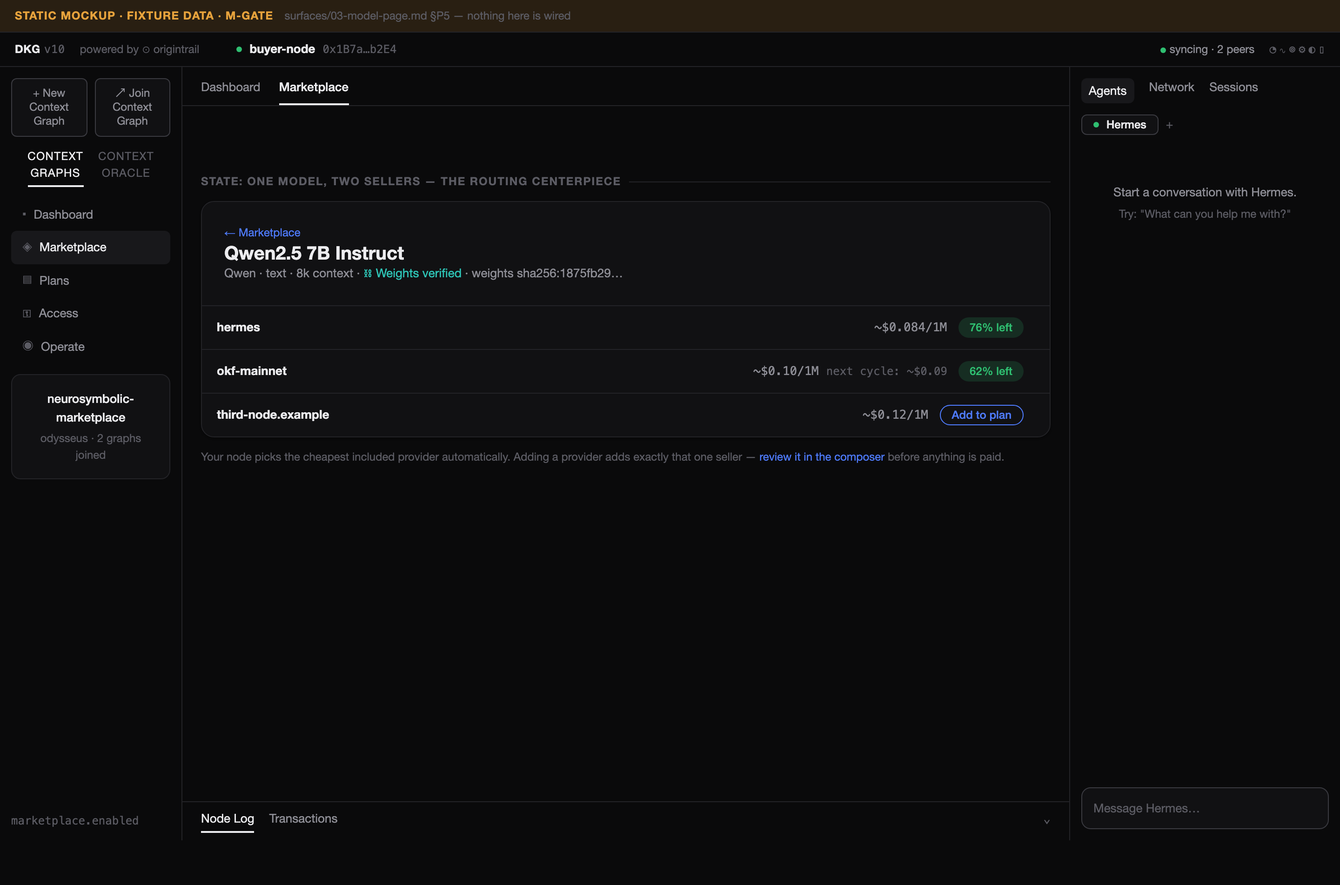
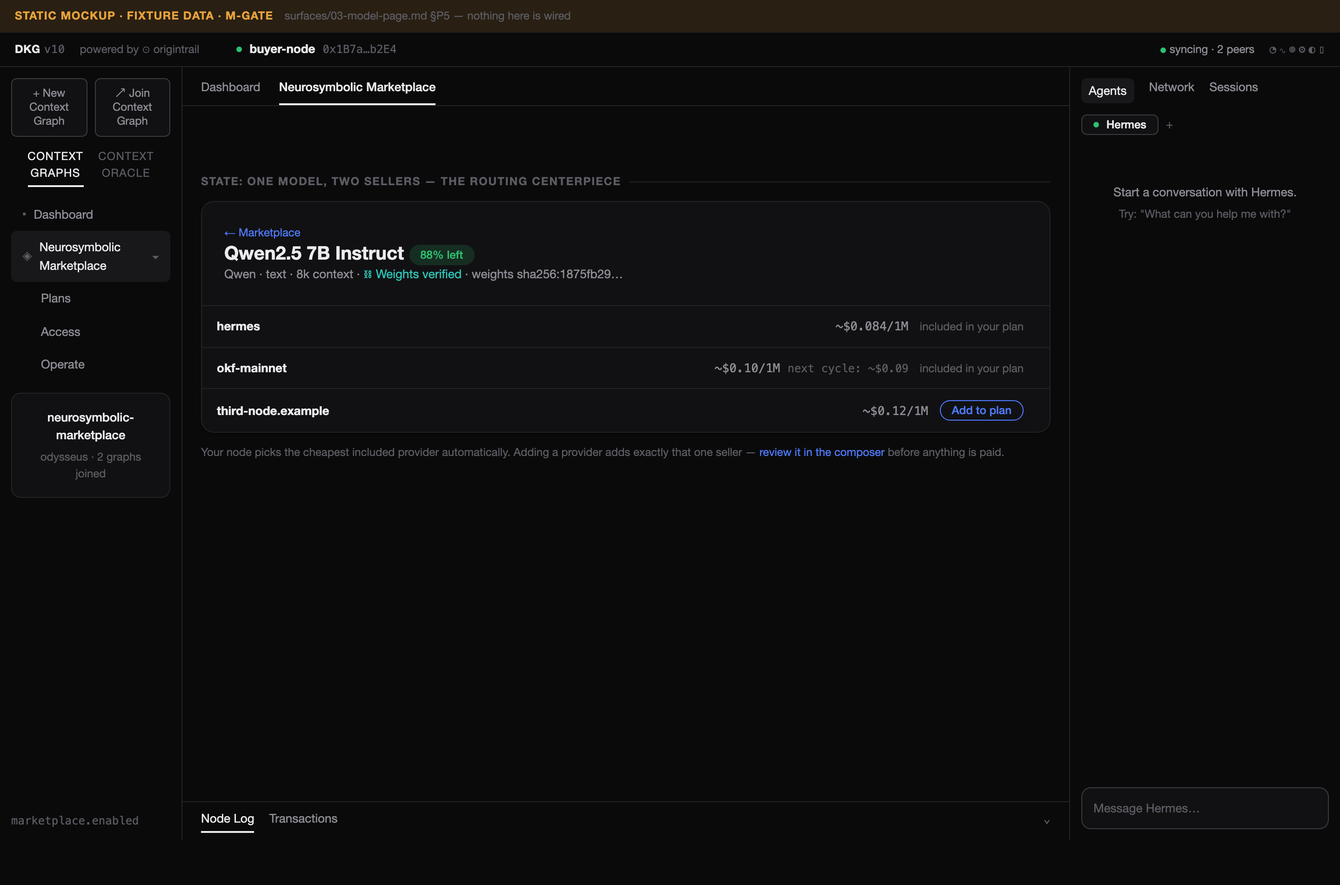
P5 Part-0: separate per-offering meters (pool removed) + collapsible Neurosymbolic Marketplace nav
Claude-Session: https://claude.ai/code/session_01JiTT3xcuesA55AyqxVU4c1

diff --git a/docs/ui-spec/mockups/p5/05-plans-meters.html b/docs/ui-spec/mockups/p5/05-plans-meters.html
@@ -38,7 +38,7 @@
     <aside class="dkg-side">
       <div class="dkg-cgbtns"><span class="b">+ New<br>Context<br>Graph</span><span class="b">↗ Join<br>Context<br>Graph</span></div>
       <div class="dkg-railtabs"><span class="on">Context<br>Graphs</span><span>Context<br>Oracle</span></div>
-      <div class="dkg-nav"><a class="row" href="index.html"><span class="ic">▪</span>Dashboard</a><a class="row" href="03-catalog-subscribed.html"><span class="ic">◈</span>Marketplace</a><a class="row on" href="05-plans-meters.html"><span class="ic">▤</span>Plans</a><a class="row" href="10-access.html"><span class="ic">⚿</span>Access</a><a class="row" href="09-operate-v5.html"><span class="ic">◉</span>Operate</a></div>
+      <div class="dkg-nav"><a class="row" href="index.html"><span class="ic">▪</span>Dashboard</a><a class="row" href="03-catalog-subscribed.html"><span class="ic">◈</span>Neurosymbolic Marketplace <span class="car">▾</span></a><div class="subnav"><a class="row sub on" href="05-plans-meters.html">Plans</a><a class="row sub" href="10-access.html">Access</a><a class="row sub" href="09-operate-v5.html">Operate</a></div></div>
       <div class="dkg-nocg"><div class="t">neurosymbolic-marketplace</div><div class="s">odysseus · 2 graphs joined</div></div>
       <div class="dkg-flag">marketplace.enabled</div>
     </aside>
@@ -47,38 +47,46 @@
       <div class="dkg-content">
 <div class="frame frame--narrow">
 
-  <div class="state-label">state: normal — the pool shows its composition</div>
+    <div class="state-label">state: normal — every offering meters itself</div>
   <div class="card card--pad stack">
-    <div class="planhead"><h1 style="font-size:var(--fs-xl)">Plan: 38% used</h1><span class="sec">Resets in 12 days · <a href="01-subscribe-onboarding.html#consent">Top up</a> · <a href="02-plan-composer.html" class="muted">Upgrade next period</a></span></div>
-    <div class="bar plain"><i style="width:38%"></i></div>
+    <div class="planhead"><h1 style="font-size:var(--fs-xl)">Plan overall: 34% of this period's value used</h1><span class="sec">Resets in 12 days · <a href="01-subscribe-onboarding.html#consent">Top up</a> · <a href="02-plan-composer.html" class="muted">Upgrade next period</a></span></div>
+    <p class="muted xs">A readout, not a limit — each meter below is its own ceiling.</p>
     <div class="mrow">
-      <div class="mhead"><span><strong>okf-mainnet pool</strong> — $0.30 of $0.78 · any mix of 4 offerings</span><span class="mono sec">38%</span></div>
-      <div class="bar"><i class="seg1" style="width:23.2%"></i><i class="seg2" style="width:9.5%"></i><i class="seg3" style="width:3%"></i><i class="segq" style="width:2.3%"></i></div>
-      <div class="legend">Mostly Qwen 14B (61%) · Qwen 7B 25% · gpt-5.x 8% · queries 6%</div>
-      <div class="pop">Qwen 14B — 1.08M tokens · $0.18 <span class="muted">(tapped segment)</span></div>
+      <div class="mhead"><span><strong>Qwen2.5 14B</strong> <span class="muted xs">via okf-mainnet</span> — 24% used · Resets in 12 days</span><span class="mono sec">76% left</span></div>
+      <div class="bar plain"><i style="width:24%"></i></div>
+      <div class="pop">1.08M of 4.5M tokens · $0.18 spent <span class="muted">(tapped)</span></div>
       <div class="sparkrow"><span class="spark"><i style="height:16%"></i><i style="height:24%"></i><i style="height:24%"></i><i style="height:32%"></i><i style="height:48%"></i><i style="height:72%"></i><i style="height:96%"></i></span><span class="pace warn">At this pace: runs out ~4 days before reset</span></div>
     </div>
     <div class="mrow">
-      <div class="mhead"><span><strong>hermes · Qwen2.5 7B</strong> (separate budget) — 24% used</span><span class="mono sec">76% left</span></div>
-      <div class="bar plain"><i style="width:24%"></i></div>
-      <div class="legend">At least 5M tokens at your max price — routed cheaper twice, +140k extra</div>
+      <div class="mhead"><span><strong>Qwen2.5 7B</strong> <span class="muted xs">via hermes · okf-mainnet</span> — 12% used · Resets in 12 days</span><span class="mono sec">88% left</span></div>
+      <div class="bar plain"><i style="width:12%"></i></div>
       <div class="sparkrow"><span class="spark"><i style="height:16%"></i><i style="height:16%"></i><i style="height:24%"></i><i style="height:16%"></i><i style="height:24%"></i><i style="height:16%"></i><i style="height:24%"></i></span><span class="pace quiet">On track to reset</span></div>
+    </div>
+    <div class="mrow">
+      <div class="mhead"><span><strong>gpt-5.x</strong> <span class="muted xs">via okf-mainnet</span> — 38% used · Resets in 12 days</span><span class="mono sec">62% left</span></div>
+      <div class="bar plain"><i style="width:38%"></i></div>
+      <div class="sparkrow"><span class="spark"><i style="height:8%"></i><i style="height:16%"></i><i style="height:16%"></i><i style="height:24%"></i><i style="height:24%"></i><i style="height:32%"></i><i style="height:32%"></i></span><span class="pace quiet">On track to reset</span></div>
+    </div>
+    <div class="mrow">
+      <div class="mhead"><span><strong>okf knowledge</strong> <span class="muted xs">via okf-mainnet</span> — 9% used · Resets in 12 days</span><span class="mono sec">92% left</span></div>
+      <div class="bar plain"><i style="width:9%"></i></div>
+      <div class="sparkrow"><span class="spark"><i style="height:8%"></i><i style="height:8%"></i><i style="height:16%"></i><i style="height:8%"></i><i style="height:16%"></i><i style="height:16%"></i><i style="height:16%"></i></span><span class="pace quiet">On track to reset</span></div>
     </div>
     <a class="sec sm" style="display:block" href="06-statement.html">This period: our count 1,238,400 · provider count 1,238,400 ✓ →</a>
   </div>
 
   <div class="state-label">state: approaching (87%)</div>
   <div class="card card--pad stack">
-    <div class="mhead"><span><strong>okf-mainnet pool</strong></span><span style="color:var(--gauge-mid)">87% used — approaching your ceiling</span></div>
+    <div class="mhead"><span><strong>gpt-5.x</strong> <span class="muted xs">via okf-mainnet</span></span><span style="color:var(--gauge-mid)">87% used — approaching your ceiling</span></div>
     <div class="bar warn"><i style="width:87%"></i></div>
   </div>
 
-  <div class="state-label">state: ceiling hit — one button, one line</div>
+  <div class="state-label">state: one ceiling hit — the other meters stay usable</div>
   <div class="card card--pad stack">
-    <div class="mhead"><span><strong>hermes · Qwen2.5 7B</strong></span><span style="color:var(--gauge-over)">100%</span></div>
+    <div class="mhead"><span><strong>Qwen2.5 14B</strong> <span class="muted xs">via okf-mainnet</span></span><span style="color:var(--gauge-over)">100%</span></div>
     <div class="bar hit"><i style="width:100%"></i></div>
     <h2>You've reached this ceiling</h2>
-    <div class="fork"><a class="btn btn--primary" href="01-subscribe-onboarding.html#consent">Top up</a><span class="sec sm">or wait — resets in 12 d · or switch to Qwen 7B (okf), 92% left</span></div>
+    <div class="fork"><a class="btn btn--primary" href="01-subscribe-onboarding.html#consent">Top up</a><span class="sec sm">or wait — resets in 12 d · or switch to Qwen 7B, 88% left — every other meter still works</span></div>
   </div>
 
   <div class="state-label">state: just reset — expiry journaled, not returned</div>

diff --git a/docs/ui-spec/mockups/p5/02-plan-composer.html b/docs/ui-spec/mockups/p5/02-plan-composer.html
@@ -28,7 +28,7 @@
     <aside class="dkg-side">
       <div class="dkg-cgbtns"><span class="b">+ New<br>Context<br>Graph</span><span class="b">↗ Join<br>Context<br>Graph</span></div>
       <div class="dkg-railtabs"><span class="on">Context<br>Graphs</span><span>Context<br>Oracle</span></div>
-      <div class="dkg-nav"><a class="row" href="index.html"><span class="ic">▪</span>Dashboard</a><a class="row" href="03-catalog-subscribed.html"><span class="ic">◈</span>Marketplace</a><a class="row on" href="05-plans-meters.html"><span class="ic">▤</span>Plans</a><a class="row" href="10-access.html"><span class="ic">⚿</span>Access</a><a class="row" href="09-operate-v5.html"><span class="ic">◉</span>Operate</a></div>
+      <div class="dkg-nav"><a class="row" href="index.html"><span class="ic">▪</span>Dashboard</a><a class="row" href="03-catalog-subscribed.html"><span class="ic">◈</span>Neurosymbolic Marketplace <span class="car">▾</span></a><div class="subnav"><a class="row sub on" href="05-plans-meters.html">Plans</a><a class="row sub" href="10-access.html">Access</a><a class="row sub" href="09-operate-v5.html">Operate</a></div></div>
       <div class="dkg-nocg"><div class="t">neurosymbolic-marketplace</div><div class="s">odysseus · 2 graphs joined</div></div>
       <div class="dkg-flag">marketplace.enabled</div>
     </aside>
@@ -45,23 +45,22 @@
     <div class="off-row"><label class="sec">Period budget</label><span><input class="input mono" value="3.6 TRAC" size="9"> <span class="sec">≈ $1.01</span></span></div>
 
     <div class="sellergrp">
-      <header><strong>okf-mainnet</strong><span class="muted xs">one pool</span></header>
+      <header><strong>okf-mainnet</strong></header>
       <div class="off-row"><span>✓ Qwen2.5 14B <span style="color:var(--prov-pinned)">⛓</span></span><span class="mono sec">~$0.17/1M</span></div>
       <div class="off-row"><span>✓ Qwen2.5 7B <span style="color:var(--prov-pinned)">⛓</span></span><span class="mono sec">~$0.10/1M</span></div>
       <div class="off-row"><span>✓ gpt-5.x <span style="color:var(--prov-claimed)">☁</span></span><span class="mono sec">~$0.31/1M</span></div>
       <div class="off-row"><span>✓ okf knowledge <span class="muted xs">query · CGs: neurosymbolic-marketplace, odysseus</span></span><span class="mono sec">~$4.27/1M units</span></div>
-      <div class="preview">≈ up to 4.6M Qwen tokens or 183k query units — any mix</div>
+      <div class="preview">≈ 4.5M Qwen 14B tokens · 2.9M Qwen 7B tokens · 183k query units per period — each with its own meter</div>
     </div>
 
     <div class="sellergrp">
-      <header><strong>hermes</strong><span class="muted xs">separate budget</span></header>
+      <header><strong>hermes</strong></header>
       <div class="off-row"><span>✓ Qwen2.5 7B <span style="color:var(--prov-pinned)">⛓</span> <span class="muted xs">pinned to hermes</span></span><span class="mono sec">~$0.084/1M</span></div>
       <div class="preview">At least 5,000,000 tokens — more if routed cheaper</div>
     </div>
 
     <details style="border-top:1px solid var(--border-subtle); padding-top:var(--sp-3)"><summary class="sec sm">Advanced</summary>
       <div style="display:grid; gap:var(--sp-2); padding:var(--sp-3) 0 0; font-size:var(--fs-sm)">
-        <div style="display:flex; justify-content:space-between; gap:var(--sp-3)"><span>Pooling per provider</span><span class="toggle"><span class="on">One pool (recommended)</span><span>Separate budgets</span></span></div>
         <div style="display:flex; justify-content:space-between; gap:var(--sp-3)"><span>Max price</span><span><input class="input mono" value="$0.12/1M" size="8"></span></div>
         <div style="display:flex; justify-content:space-between; gap:var(--sp-3)"><span>Pin providers</span><span class="muted xs">Qwen 7B → hermes</span></div>
       </div></details>

diff --git a/docs/ui-spec/mockups/p5/04-model-page-covered.html b/docs/ui-spec/mockups/p5/04-model-page-covered.html
@@ -23,21 +23,21 @@
     <aside class="dkg-side">
       <div class="dkg-cgbtns"><span class="b">+ New<br>Context<br>Graph</span><span class="b">↗ Join<br>Context<br>Graph</span></div>
       <div class="dkg-railtabs"><span class="on">Context<br>Graphs</span><span>Context<br>Oracle</span></div>
-      <div class="dkg-nav"><a class="row" href="index.html"><span class="ic">▪</span>Dashboard</a><a class="row on" href="03-catalog-subscribed.html"><span class="ic">◈</span>Marketplace</a><a class="row" href="05-plans-meters.html"><span class="ic">▤</span>Plans</a><a class="row" href="10-access.html"><span class="ic">⚿</span>Access</a><a class="row" href="09-operate-v5.html"><span class="ic">◉</span>Operate</a></div>
+      <div class="dkg-nav"><a class="row" href="index.html"><span class="ic">▪</span>Dashboard</a><a class="row on" href="03-catalog-subscribed.html"><span class="ic">◈</span>Neurosymbolic Marketplace <span class="car">▾</span></a><div class="subnav"><a class="row sub" href="05-plans-meters.html">Plans</a><a class="row sub" href="10-access.html">Access</a><a class="row sub" href="09-operate-v5.html">Operate</a></div></div>
       <div class="dkg-nocg"><div class="t">neurosymbolic-marketplace</div><div class="s">odysseus · 2 graphs joined</div></div>
       <div class="dkg-flag">marketplace.enabled</div>
     </aside>
     <main class="dkg-center">
-      <div class="dkg-tabs"><a class="t" href="index.html">Dashboard</a><span class="t on">Marketplace</span></div>
+      <div class="dkg-tabs"><a class="t" href="index.html">Dashboard</a><span class="t on">Neurosymbolic Marketplace</span></div>
       <div class="dkg-content">
 
 <div class="frame frame--narrow">
   <div class="state-label">state: one model, two sellers — the routing centerpiece</div>
   <div class="card">
-    <div class="card--pad"><p class="muted xs"><a href="03-catalog-subscribed.html">← Marketplace</a></p><h1 style="font-size:var(--fs-xl)">Qwen2.5 7B Instruct</h1>
+    <div class="card--pad"><p class="muted xs"><a href="03-catalog-subscribed.html">← Marketplace</a></p><h1 style="font-size:var(--fs-xl)">Qwen2.5 7B Instruct <a class="chip chip--allow" href="05-plans-meters.html" style="vertical-align:middle">88% left</a></h1>
       <p class="sec sm">Qwen · text · 8k context · <span style="color:var(--prov-pinned)">⛓ Weights verified</span> · weights sha256:1875fb29…</p></div>
-    <div class="srow"><span><strong>hermes</strong></span><span class="ask mono sec">~$0.084/1M</span><a class="chip chip--allow" href="05-plans-meters.html">76% left</a><span></span></div>
-    <div class="srow"><span><strong>okf-mainnet</strong></span><span class="ask mono sec">~$0.10/1M <span class="muted xs">next cycle: ~$0.09</span></span><a class="chip chip--allow" href="05-plans-meters.html">62% left</a><span></span></div>
+    <div class="srow"><span><strong>hermes</strong></span><span class="ask mono sec">~$0.084/1M</span><span class="muted xs">included in your plan</span><span></span></div>
+    <div class="srow"><span><strong>okf-mainnet</strong></span><span class="ask mono sec">~$0.10/1M <span class="muted xs">next cycle: ~$0.09</span></span><span class="muted xs">included in your plan</span><span></span></div>
     <div class="srow"><span><strong>third-node.example</strong></span><span class="ask mono sec">~$0.12/1M</span><a class="chip chip--add" href="02-plan-composer.html">Add to plan</a><span></span></div>
   </div>
   <p class="muted xs" style="margin-top:var(--sp-3)">Your node picks the cheapest included provider automatically. Adding a provider adds exactly that one seller — <a href="02-plan-composer.html">review it in the composer</a> before anything is paid.</p>

diff --git a/docs/ui-spec/mockups/p5/08-playground-p5.html b/docs/ui-spec/mockups/p5/08-playground-p5.html
@@ -27,44 +27,44 @@
     <aside class="dkg-side">
       <div class="dkg-cgbtns"><span class="b">+ New<br>Context<br>Graph</span><span class="b">↗ Join<br>Context<br>Graph</span></div>
       <div class="dkg-railtabs"><span class="on">Context<br>Graphs</span><span>Context<br>Oracle</span></div>
-      <div class="dkg-nav"><a class="row" href="index.html"><span class="ic">▪</span>Dashboard</a><a class="row on" href="03-catalog-subscribed.html"><span class="ic">◈</span>Marketplace</a><a class="row" href="05-plans-meters.html"><span class="ic">▤</span>Plans</a><a class="row" href="10-access.html"><span class="ic">⚿</span>Access</a><a class="row" href="09-operate-v5.html"><span class="ic">◉</span>Operate</a></div>
+      <div class="dkg-nav"><a class="row" href="index.html"><span class="ic">▪</span>Dashboard</a><a class="row on" href="03-catalog-subscribed.html"><span class="ic">◈</span>Neurosymbolic Marketplace <span class="car">▾</span></a><div class="subnav"><a class="row sub" href="05-plans-meters.html">Plans</a><a class="row sub" href="10-access.html">Access</a><a class="row sub" href="09-operate-v5.html">Operate</a></div></div>
       <div class="dkg-nocg"><div class="t">neurosymbolic-marketplace</div><div class="s">odysseus · 2 graphs joined</div></div>
       <div class="dkg-flag">marketplace.enabled</div>
     </aside>
     <main class="dkg-center">
-      <div class="dkg-tabs"><a class="t" href="index.html">Dashboard</a><span class="t on">Marketplace</span></div>
+      <div class="dkg-tabs"><a class="t" href="index.html">Dashboard</a><span class="t on">Neurosymbolic Marketplace</span></div>
       <div class="dkg-content">
 <div class="frame frame--narrow">
 
-  <div class="state-label">before — a query is about to land</div>
+  <div class="state-label">before — a query is about to land (knowledge meter: 92% left)</div>
   <div class="card card--pad stack">
     <div class="switcher">
       <span class="mopt on">Qwen 14B · 76% left</span>
       <span class="mopt">Qwen 7B · 88% left</span>
       <span class="mopt">gpt-5.x · 62% left</span>
       <span class="mopt">okf knowledge · 92% left</span>
-      <a class="poolchip" href="05-plans-meters.html">Pool: 62% left</a>
+      
     </div>
     <div class="chat">
       <div class="bubble user">Which suppliers share that welding cert issue?</div>
     </div>
   </div>
 
-  <div class="state-label">after — the answer landed and the meter moved</div>
+  <div class="state-label">after — the answer landed and the knowledge meter moved (92% → 91%)</div>
   <div class="card card--pad stack">
     <div class="switcher">
       <span class="mopt on">Qwen 14B · 76% left</span>
       <span class="mopt">Qwen 7B · 88% left</span>
       <span class="mopt">gpt-5.x · 62% left</span>
-      <span class="mopt">okf knowledge · 92% left</span>
-      <a class="poolchip" href="05-plans-meters.html">Pool: 61% left</a>
+      <a class="mopt" href="05-plans-meters.html">okf knowledge · 91% left</a>
+      
     </div>
     <div class="chat">
       <div class="bubble user">Which suppliers share that welding cert issue?</div>
       <div><div class="bubble model">Query over okf knowledge: 3 suppliers match…</div>
         <div class="servedby">via okf-mainnet · 41 units</div></div>
     </div>
-    <p class="muted xs">The Plans bar reflects the same move — one store, two views. Unit details are one tap away.</p>
+    <p class="muted xs">The knowledge meter on Plans reflects the same move — one store, two views. Unit details are one tap away.</p>
   </div>
 
   <div class="state-label">state: mid-chat ceiling hit — one button, one line, inline</div>

diff --git a/docs/ui-spec/mockups/p5/index.html b/docs/ui-spec/mockups/p5/index.html
@@ -22,7 +22,7 @@
     <aside class="dkg-side">
       <div class="dkg-cgbtns"><span class="b">+ New<br>Context<br>Graph</span><span class="b">↗ Join<br>Context<br>Graph</span></div>
       <div class="dkg-railtabs"><span class="on">Context<br>Graphs</span><span>Context<br>Oracle</span></div>
-      <div class="dkg-nav"><a class="row" href="index.html"><span class="ic">▪</span>Dashboard</a><a class="row" href="03-catalog-subscribed.html"><span class="ic">◈</span>Marketplace</a><a class="row" href="05-plans-meters.html"><span class="ic">▤</span>Plans</a><a class="row" href="10-access.html"><span class="ic">⚿</span>Access</a><a class="row" href="09-operate-v5.html"><span class="ic">◉</span>Operate</a></div>
+      <div class="dkg-nav"><a class="row" href="index.html"><span class="ic">▪</span>Dashboard</a><a class="row" href="03-catalog-subscribed.html"><span class="ic">◈</span>Neurosymbolic Marketplace <span class="car">▾</span></a><div class="subnav"><a class="row sub" href="05-plans-meters.html">Plans</a><a class="row sub" href="10-access.html">Access</a><a class="row sub" href="09-operate-v5.html">Operate</a></div></div>
       <div class="dkg-nocg"><div class="t">neurosymbolic-marketplace</div><div class="s">odysseus · 2 graphs joined</div></div>
       <div class="dkg-flag">marketplace.enabled</div>
     </aside>
@@ -36,8 +36,8 @@
 
   <div class="journey"><h2>Buyer journey</h2>
     <div class="jstep"><span class="n">1</span><a href="01-subscribe-onboarding.html">Subscribe → Key</a><span class="what">plan template or composer · starter picks ONE provider · one consent, one transfer · no-refund line on the gate · key shown once</span></div>
-    <div class="jstep"><span class="n">2</span><a href="02-plan-composer.html">Plan composer</a><span class="what">budget across models + query units · one pool vs separate budgets under Advanced · live preview</span></div>
-    <div class="jstep"><span class="n">3</span><a href="03-catalog-subscribed.html">Catalog, subscription-aware</a><span class="what">remaining-allowance chips · Add to plan</span></div>
+    <div class="jstep"><span class="n">2</span><a href="02-plan-composer.html">Plan composer</a><span class="what">budget across models + query units · per-offering meters · Advanced holds max price + pinning</span></div>
+    <div class="jstep"><span class="n">3</span><a href="03-catalog-subscribed.html">Neurosymbolic Marketplace — catalog</a><span class="what">remaining-allowance chips · Add to plan</span></div>
     <div class="jstep"><span class="n">4</span><a href="04-model-page-covered.html">Model page</a><span class="what">two sellers of one model · covered / not-covered rows</span></div>
     <div class="jstep"><span class="n">5</span><a href="08-playground-p5.html">Playground</a><span class="what">served-by lines · % left in the switcher · the inline 402 fork · query cost</span></div>
     <div class="jstep"><span class="n">6</span><a href="05-plans-meters.html">Plans &amp; meters</a><span class="what">the Claude usage idiom · shared drawdown itemized · approaching / hit / expiry</span></div>

diff --git a/docs/ui-spec/mockups/p5/07-storefront.html b/docs/ui-spec/mockups/p5/07-storefront.html
@@ -23,12 +23,12 @@
     <aside class="dkg-side">
       <div class="dkg-cgbtns"><span class="b">+ New<br>Context<br>Graph</span><span class="b">↗ Join<br>Context<br>Graph</span></div>
       <div class="dkg-railtabs"><span class="on">Context<br>Graphs</span><span>Context<br>Oracle</span></div>
-      <div class="dkg-nav"><a class="row" href="index.html"><span class="ic">▪</span>Dashboard</a><a class="row on" href="03-catalog-subscribed.html"><span class="ic">◈</span>Marketplace</a><a class="row" href="05-plans-meters.html"><span class="ic">▤</span>Plans</a><a class="row" href="10-access.html"><span class="ic">⚿</span>Access</a><a class="row" href="09-operate-v5.html"><span class="ic">◉</span>Operate</a></div>
+      <div class="dkg-nav"><a class="row" href="index.html"><span class="ic">▪</span>Dashboard</a><a class="row on" href="03-catalog-subscribed.html"><span class="ic">◈</span>Neurosymbolic Marketplace <span class="car">▾</span></a><div class="subnav"><a class="row sub" href="05-plans-meters.html">Plans</a><a class="row sub" href="10-access.html">Access</a><a class="row sub" href="09-operate-v5.html">Operate</a></div></div>
       <div class="dkg-nocg"><div class="t">neurosymbolic-marketplace</div><div class="s">odysseus · 2 graphs joined</div></div>
       <div class="dkg-flag">marketplace.enabled</div>
     </aside>
     <main class="dkg-center">
-      <div class="dkg-tabs"><a class="t" href="index.html">Dashboard</a><span class="t on">Marketplace</span></div>
+      <div class="dkg-tabs"><a class="t" href="index.html">Dashboard</a><span class="t on">Neurosymbolic Marketplace</span></div>
       <div class="dkg-content">
 
 <div class="frame frame--narrow">

diff --git a/docs/ui-spec/mockups/p5/03-catalog-subscribed.html b/docs/ui-spec/mockups/p5/03-catalog-subscribed.html
@@ -24,12 +24,12 @@
     <aside class="dkg-side">
       <div class="dkg-cgbtns"><span class="b">+ New<br>Context<br>Graph</span><span class="b">↗ Join<br>Context<br>Graph</span></div>
       <div class="dkg-railtabs"><span class="on">Context<br>Graphs</span><span>Context<br>Oracle</span></div>
-      <div class="dkg-nav"><a class="row" href="index.html"><span class="ic">▪</span>Dashboard</a><a class="row on" href="03-catalog-subscribed.html"><span class="ic">◈</span>Marketplace</a><a class="row" href="05-plans-meters.html"><span class="ic">▤</span>Plans</a><a class="row" href="10-access.html"><span class="ic">⚿</span>Access</a><a class="row" href="09-operate-v5.html"><span class="ic">◉</span>Operate</a></div>
+      <div class="dkg-nav"><a class="row" href="index.html"><span class="ic">▪</span>Dashboard</a><a class="row on" href="03-catalog-subscribed.html"><span class="ic">◈</span>Neurosymbolic Marketplace <span class="car">▾</span></a><div class="subnav"><a class="row sub" href="05-plans-meters.html">Plans</a><a class="row sub" href="10-access.html">Access</a><a class="row sub" href="09-operate-v5.html">Operate</a></div></div>
       <div class="dkg-nocg"><div class="t">neurosymbolic-marketplace</div><div class="s">odysseus · 2 graphs joined</div></div>
       <div class="dkg-flag">marketplace.enabled</div>
     </aside>
     <main class="dkg-center">
-      <div class="dkg-tabs"><a class="t" href="index.html">Dashboard</a><span class="t on">Marketplace</span></div>
+      <div class="dkg-tabs"><a class="t" href="index.html">Dashboard</a><span class="t on">Neurosymbolic Marketplace</span></div>
       <div class="dkg-content">
 
 <div class="frame">

diff --git a/docs/ui-spec/mockups/p5/01-subscribe-onboarding.html b/docs/ui-spec/mockups/p5/01-subscribe-onboarding.html
@@ -31,7 +31,7 @@
     <aside class="dkg-side">
       <div class="dkg-cgbtns"><span class="b">+ New<br>Context<br>Graph</span><span class="b">↗ Join<br>Context<br>Graph</span></div>
       <div class="dkg-railtabs"><span class="on">Context<br>Graphs</span><span>Context<br>Oracle</span></div>
-      <div class="dkg-nav"><a class="row" href="index.html"><span class="ic">▪</span>Dashboard</a><a class="row" href="03-catalog-subscribed.html"><span class="ic">◈</span>Marketplace</a><a class="row on" href="05-plans-meters.html"><span class="ic">▤</span>Plans</a><a class="row" href="10-access.html"><span class="ic">⚿</span>Access</a><a class="row" href="09-operate-v5.html"><span class="ic">◉</span>Operate</a></div>
+      <div class="dkg-nav"><a class="row" href="index.html"><span class="ic">▪</span>Dashboard</a><a class="row" href="03-catalog-subscribed.html"><span class="ic">◈</span>Neurosymbolic Marketplace <span class="car">▾</span></a><div class="subnav"><a class="row sub on" href="05-plans-meters.html">Plans</a><a class="row sub" href="10-access.html">Access</a><a class="row sub" href="09-operate-v5.html">Operate</a></div></div>
       <div class="dkg-nocg"><div class="t">neurosymbolic-marketplace</div><div class="s">odysseus · 2 graphs joined</div></div>
       <div class="dkg-flag">marketplace.enabled</div>
     </aside>

diff --git a/docs/ui-spec/mockups/p5/06-statement.html b/docs/ui-spec/mockups/p5/06-statement.html
@@ -21,7 +21,7 @@
     <aside class="dkg-side">
       <div class="dkg-cgbtns"><span class="b">+ New<br>Context<br>Graph</span><span class="b">↗ Join<br>Context<br>Graph</span></div>
       <div class="dkg-railtabs"><span class="on">Context<br>Graphs</span><span>Context<br>Oracle</span></div>
-      <div class="dkg-nav"><a class="row" href="index.html"><span class="ic">▪</span>Dashboard</a><a class="row" href="03-catalog-subscribed.html"><span class="ic">◈</span>Marketplace</a><a class="row on" href="05-plans-meters.html"><span class="ic">▤</span>Plans</a><a class="row" href="10-access.html"><span class="ic">⚿</span>Access</a><a class="row" href="09-operate-v5.html"><span class="ic">◉</span>Operate</a></div>
+      <div class="dkg-nav"><a class="row" href="index.html"><span class="ic">▪</span>Dashboard</a><a class="row" href="03-catalog-subscribed.html"><span class="ic">◈</span>Neurosymbolic Marketplace <span class="car">▾</span></a><div class="subnav"><a class="row sub on" href="05-plans-meters.html">Plans</a><a class="row sub" href="10-access.html">Access</a><a class="row sub" href="09-operate-v5.html">Operate</a></div></div>
       <div class="dkg-nocg"><div class="t">neurosymbolic-marketplace</div><div class="s">odysseus · 2 graphs joined</div></div>
       <div class="dkg-flag">marketplace.enabled</div>
     </aside>

diff --git a/docs/ui-spec/mockups/p5/09-operate-v5.html b/docs/ui-spec/mockups/p5/09-operate-v5.html
@@ -24,7 +24,7 @@
     <aside class="dkg-side">
       <div class="dkg-cgbtns"><span class="b">+ New<br>Context<br>Graph</span><span class="b">↗ Join<br>Context<br>Graph</span></div>
       <div class="dkg-railtabs"><span class="on">Context<br>Graphs</span><span>Context<br>Oracle</span></div>
-      <div class="dkg-nav"><a class="row" href="index.html"><span class="ic">▪</span>Dashboard</a><a class="row" href="03-catalog-subscribed.html"><span class="ic">◈</span>Marketplace</a><a class="row" href="05-plans-meters.html"><span class="ic">▤</span>Plans</a><a class="row" href="10-access.html"><span class="ic">⚿</span>Access</a><a class="row on" href="09-operate-v5.html"><span class="ic">◉</span>Operate</a></div>
+      <div class="dkg-nav"><a class="row" href="index.html"><span class="ic">▪</span>Dashboard</a><a class="row" href="03-catalog-subscribed.html"><span class="ic">◈</span>Neurosymbolic Marketplace <span class="car">▾</span></a><div class="subnav"><a class="row sub" href="05-plans-meters.html">Plans</a><a class="row sub" href="10-access.html">Access</a><a class="row sub on" href="09-operate-v5.html">Operate</a></div></div>
       <div class="dkg-nocg"><div class="t">neurosymbolic-marketplace</div><div class="s">odysseus · 2 graphs joined</div></div>
       <div class="dkg-flag">marketplace.enabled</div>
     </aside>

diff --git a/docs/ui-spec/mockups/p5/10-access.html b/docs/ui-spec/mockups/p5/10-access.html
@@ -24,7 +24,7 @@
     <aside class="dkg-side">
       <div class="dkg-cgbtns"><span class="b">+ New<br>Context<br>Graph</span><span class="b">↗ Join<br>Context<br>Graph</span></div>
       <div class="dkg-railtabs"><span class="on">Context<br>Graphs</span><span>Context<br>Oracle</span></div>
-      <div class="dkg-nav"><a class="row" href="index.html"><span class="ic">▪</span>Dashboard</a><a class="row" href="03-catalog-subscribed.html"><span class="ic">◈</span>Marketplace</a><a class="row" href="05-plans-meters.html"><span class="ic">▤</span>Plans</a><a class="row on" href="10-access.html"><span class="ic">⚿</span>Access</a><a class="row" href="09-operate-v5.html"><span class="ic">◉</span>Operate</a></div>
+      <div class="dkg-nav"><a class="row" href="index.html"><span class="ic">▪</span>Dashboard</a><a class="row" href="03-catalog-subscribed.html"><span class="ic">◈</span>Neurosymbolic Marketplace <span class="car">▾</span></a><div class="subnav"><a class="row sub" href="05-plans-meters.html">Plans</a><a class="row sub on" href="10-access.html">Access</a><a class="row sub" href="09-operate-v5.html">Operate</a></div></div>
       <div class="dkg-nocg"><div class="t">neurosymbolic-marketplace</div><div class="s">odysseus · 2 graphs joined</div></div>
       <div class="dkg-flag">marketplace.enabled</div>
     </aside>

diff --git a/docs/ui-spec/mockups/shell.css b/docs/ui-spec/mockups/shell.css
@@ -51,3 +51,7 @@
 a.btn { text-decoration:none; display:inline-flex; align-items:center; justify-content:center; }
 .dkg-nav a.row, .dkg-tabs a.t { text-decoration:none; }
 a.chip, a.stmt, a.mopt, a.poolchip { text-decoration:none; cursor:pointer; }
+/* collapsible marketplace group (operator instruction 2026-08-25) */
+.dkg-nav .row .car { margin-left:auto; color:var(--text-muted); font-size:var(--fs-xs); }
+.dkg-nav .subnav { display:flex; flex-direction:column; }
+.dkg-nav .row.sub { padding-left:calc(var(--sp-3) + var(--sp-5)); font-size:var(--fs-sm); }
